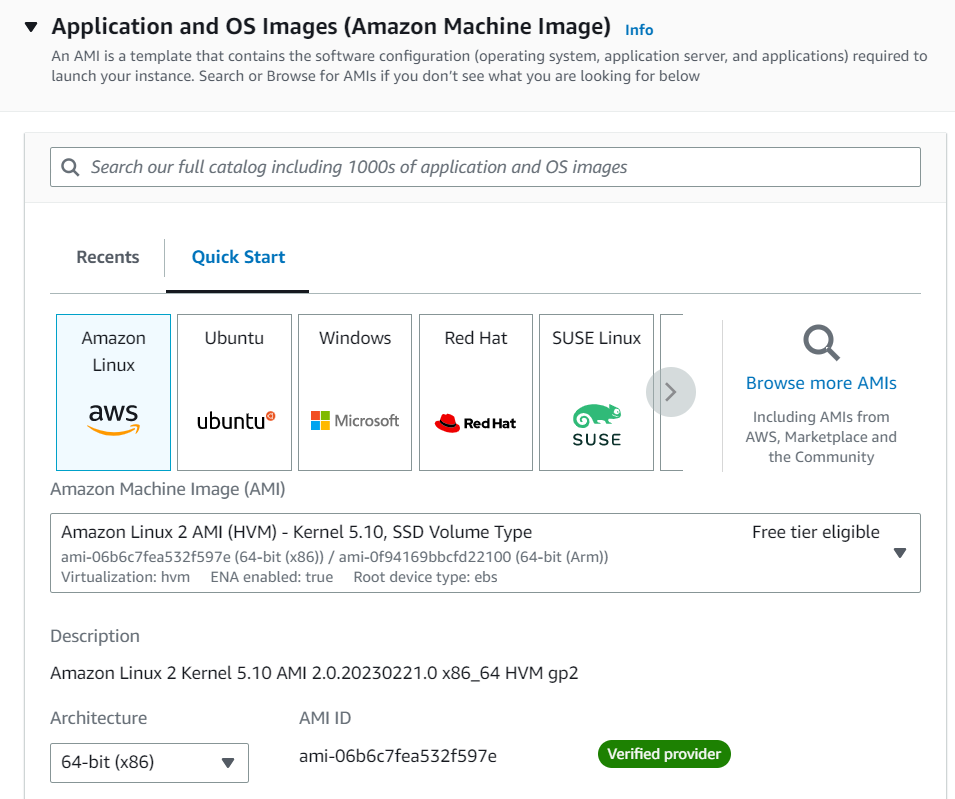
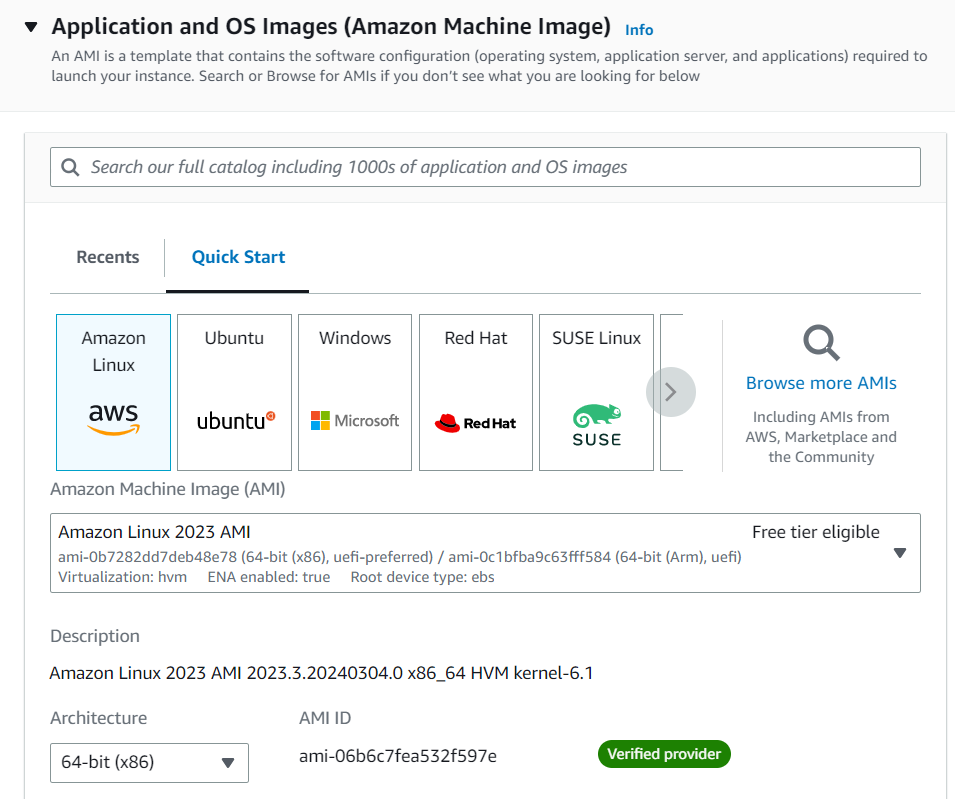
update 06

Changed region(s): [[0.0607, 0.6608, 0.7895, 0.7509], [0.0607, 0.811, 0.6073, 0.8711]]

diff --git a/07-cloud/03-docker/06-aws-deploy/README.md b/07-cloud/03-docker/06-aws-deploy/README.md
@@ -37,7 +37,7 @@ Install docker in AWS EC2 instance:
 
 ```bash
 sudo yum update -y
-sudo amazon-linux-extras install docker
+sudo yum install docker
 sudo service docker start
 # Optional step
 sudo usermod -a -G docker ec2-user
